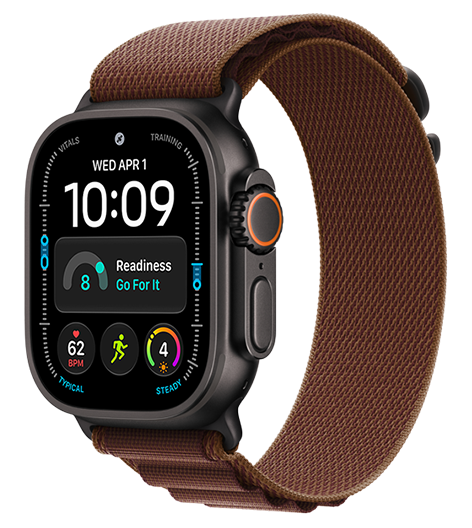
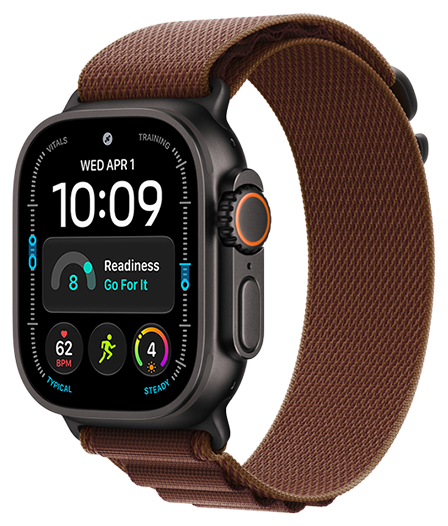
Enhance product display and recommendations with new features and image updates
- Introduced openHero function in app.js to improve hero section rendering based on product theme.
- Updated recommendation logic in recommend.js to better handle budget constraints and product shapes.
- Replaced PNG images with optimized WEBP format for various products in data.js and images directory, improving load times and visual quality.
- Adjusted styles in styles.css for better hero section presentation and overall layout consistency.

Changed region(s): [[0.0, 0.0304, 0.9688, 0.9734], [0.5, 0.2738, 0.625, 0.73], [0.5, 0.73, 0.5312, 0.7605]]

diff --git a/recommend.js b/recommend.js
@@ -97,6 +97,13 @@
         "It starts at " +
         money(product.price) +
         ". That is the match for what you described, not simply the most expensive model.";
+    } else if (band && !inBand(product.price, band)) {
+      priceBody =
+        "It starts at " +
+        money(product.price) +
+        ". That’s just outside the range you set, and it’s the closest " +
+        (product.kind === "macbook" ? "laptop" : "desktop") +
+        " for how you said you’d use it.";
     } else if (band) {
       priceBody =
         "At " +
@@ -124,8 +131,37 @@
     ];
   }
 
+  function macShape(product) {
+    if (!product || product.category !== "mac") return "";
+    if (product.kind === "macbook") return "laptop";
+    if (product.kind === "imac" || product.kind === "mini" || product.kind === "studio") return "desktop";
+    return "";
+  }
+
+  function preferredShape(answers) {
+    if (!answers || answers.category !== "mac") return "";
+    const extras = answers.extras || [];
+    if (answers.place === "mobile") return "laptop";
+    if (answers.place === "desk") return "desktop";
+    if (extras.indexOf("light") >= 0) return "laptop";
+    if (answers.place === "mix" || extras.indexOf("ports") >= 0) {
+      return extras.indexOf("ports") >= 0 ? "desktop" : "laptop";
+    }
+    return "";
+  }
+
+  function closestToBand(rows, band) {
+    function distance(price) {
+      if (band.max != null && price > band.max) return price - band.max;
+      if (price < band.min) return (band.min - price) * 0.35;
+      return 0;
+    }
+    const sorted = rows.slice().sort((a, b) => distance(a.p.price) - distance(b.p.price) || b.score - a.score);
+    const nearest = distance(sorted[0].p.price);
+    return sorted.filter((row) => distance(row.p.price) <= nearest + 120);
+  }
+
   function buildRecommendation(answers) {
-    const flow = Data.getFlow(answers);
     const band = selectedOptions(findStep(answers, "budget"), answers)[0];
     const category = answers.category;
     const pool = Data.products.filter((p) => {
@@ -144,17 +180,28 @@
 
     let shortlist = ranked;
     let overBudget = false;
+    const shape = preferredShape(answers);
+    const shaped = shape ? ranked.filter((row) => macShape(row.p) === shape) : [];
+    const candidates = shaped.length ? shaped : ranked;
+
     if (band && !band.soft) {
-      const inside = ranked.filter((row) => inBand(row.p.price, band));
+      const inside = candidates.filter((row) => inBand(row.p.price, band));
       if (inside.length) shortlist = inside;
-      else overBudget = true;
+      else if (shaped.length) {
+        shortlist = closestToBand(shaped, band).sort((a, b) => b.score - a.score);
+        overBudget = band.max != null && shortlist[0].p.price > band.max;
+      } else {
+        overBudget = true;
+      }
+    } else if (shaped.length) {
+      shortlist = shaped;
     }
 
     const winner = shortlist[0];
     const alternatives = shortlist.slice(1, 3);
     let stretch = null;
     if (winner && band && !band.soft && !overBudget) {
-      const aspirational = ranked.find(
+      const aspirational = (shaped.length ? shaped : ranked).find(
         (row) =>
           row.p.id !== winner.p.id &&
           row.p.price > winner.p.price + 80 &&

diff --git a/data.js b/data.js
@@ -1960,37 +1960,37 @@
   ];
 
   const photos = {
-    "macbook-neo": "images/macbook-neo.png",
-    "mba-13": "images/macbook-air.png",
-    "mba-15": "images/macbook-air.png",
-    "mbp-14": "images/macbook-pro.png",
-    "mbp-14-pro": "images/macbook-pro.png",
-    "mbp-16-pro": "images/macbook-pro.png",
-    "mbp-16-max": "images/macbook-pro.png",
-    imac: "images/imac.png",
+    "macbook-neo": "images/macbook-neo.webp",
+    "mba-13": "images/macbook-air-13.webp",
+    "mba-15": "images/macbook-air-15.webp",
+    "mbp-14": "images/macbook-pro-14.webp",
+    "mbp-14-pro": "images/macbook-pro-14.webp",
+    "mbp-16-pro": "images/macbook-pro-16.webp",
+    "mbp-16-max": "images/macbook-pro-16.webp",
+    imac: "images/imac.webp",
     "mac-mini": "images/mac-mini.png",
     "mac-mini-pro": "images/mac-mini.png",
     "mac-studio": "images/mac-studio.png",
-    "iphone-18-pro": "images/iphone-18-pro.png",
-    "iphone-18-pro-max": "images/iphone-18-pro-max.png",
-    "iphone-17-pro": "images/iphone-17.png",
-    "iphone-17-pro-max": "images/iphone-17.png",
-    "iphone-air": "images/iphone-air.png",
-    "iphone-17": "images/iphone-17.png",
-    "iphone-17e": "images/iphone-17e.png",
-    ipad: "images/ipad.png",
-    "ipad-mini": "images/ipad-mini.png",
-    "ipad-air-11": "images/ipad-air.png",
-    "ipad-air-13": "images/ipad-air.png",
-    "ipad-pro-11": "images/ipad-pro.png",
-    "ipad-pro-13": "images/ipad-pro.png",
+    "iphone-18-pro": "images/iphone-18-pro.webp",
+    "iphone-18-pro-max": "images/iphone-18-pro-max.webp",
+    "iphone-17-pro": "images/iphone-17-pro.webp",
+    "iphone-17-pro-max": "images/iphone-17-pro-max.webp",
+    "iphone-air": "images/iphone-air.webp",
+    "iphone-17": "images/iphone-17.webp",
+    "iphone-17e": "images/iphone-17e.webp",
+    ipad: "images/ipad.webp",
+    "ipad-mini": "images/ipad-mini.webp",
+    "ipad-air-11": "images/ipad-air-11.webp",
+    "ipad-air-13": "images/ipad-air-13.webp",
+    "ipad-pro-11": "images/ipad-pro-11.webp",
+    "ipad-pro-13": "images/ipad-pro-13.webp",
     "watch-s12": "images/watch-s12.png",
     "watch-se": "images/watch-se.png",
     "watch-ultra": "images/watch-ultra.png",
-    "airpods-4": "images/airpods-4.png",
-    "airpods-5": "images/airpods-5.png",
-    "airpods-pro": "images/airpods-pro.png",
-    "airpods-max": "images/airpods-max.png",
+    "airpods-4": "images/airpods-4.webp",
+    "airpods-5": "images/airpods-5.webp",
+    "airpods-pro": "images/airpods-pro.webp",
+    "airpods-max": "images/airpods-max.webp",
   };
   products.forEach(function (product) {
     if (photos[product.id]) product.photo = photos[product.id];

diff --git a/app.js b/app.js
@@ -585,6 +585,12 @@
     );
   }
 
+  function openHero(crumbHtml, product, mode) {
+    const block = heroBlock(product, mode);
+    if (!product || product.theme !== "dark") return crumbHtml + block;
+    return '<div class="hero-stack">' + crumbHtml + block + "</div>";
+  }
+
   function specs(product) {
     if (!product.specs || !product.specs.length) return "";
     const cells = product.specs
@@ -680,8 +686,7 @@
       })
       .join("");
     return (
-      crumb([["Home", "#/"], ["Your match", ""]]) +
-      heroBlock(product, "result") +
+      openHero(crumb([["Home", "#/"], ["Your match", ""]]), product, "result") +
       '<section class="section"><h2>Why this one.</h2><div class="why-grid">' +
       reasons +
       "</div>" +
@@ -707,12 +712,15 @@
     const family = CATALOG[product.category] ? CATALOG[product.category][0] : "Products";
     const hash = CATALOG[product.category] ? "#/" + product.category : "#/";
     return (
-      crumb([
-        ["Home", "#/"],
-        [family, hash],
-        [product.name, ""],
-      ]) +
-      heroBlock(product, "product") +
+      openHero(
+        crumb([
+          ["Home", "#/"],
+          [family, hash],
+          [product.name, ""],
+        ]),
+        product,
+        "product"
+      ) +
       '<section class="section"><h2>The short version.</h2><div class="why-grid"><div><h3>What it’s for</h3><p>' +
       esc(product.pitch) +
       "</p></div><div><h3>Choose it if</h3><p>" +

diff --git a/styles.css b/styles.css
@@ -272,7 +272,6 @@ img, svg { display: block; }
 }
 .tile {
   min-height: 0;
-  overflow: hidden;
   text-align: center;
   padding: 48px 28px 24px;
   color: var(--text);
@@ -310,6 +309,8 @@ img, svg { display: block; }
   margin-top: 20px;
   object-fit: contain;
   object-position: center;
+  background: transparent;
+  border: 0;
 }
 .tile .product-photo { height: 300px; }
 .tile.wide .product-photo { height: 340px; max-width: 720px; }
@@ -353,6 +354,10 @@ img, svg { display: block; }
 }
 .crumb a { color: #424245; }
 .crumb a:hover { text-decoration: underline; color: #000; }
+.hero-stack { background: #000; }
+.hero-stack .crumb,
+.hero-stack .crumb a { color: #a1a1a6; }
+.hero-stack .crumb a:hover { color: #f5f5f7; }
 .crumb span[aria-hidden] { margin: 0 6px; }
 
 .catalog-head, .page-hero { text-align: center; padding: 48px 22px 12px; }
